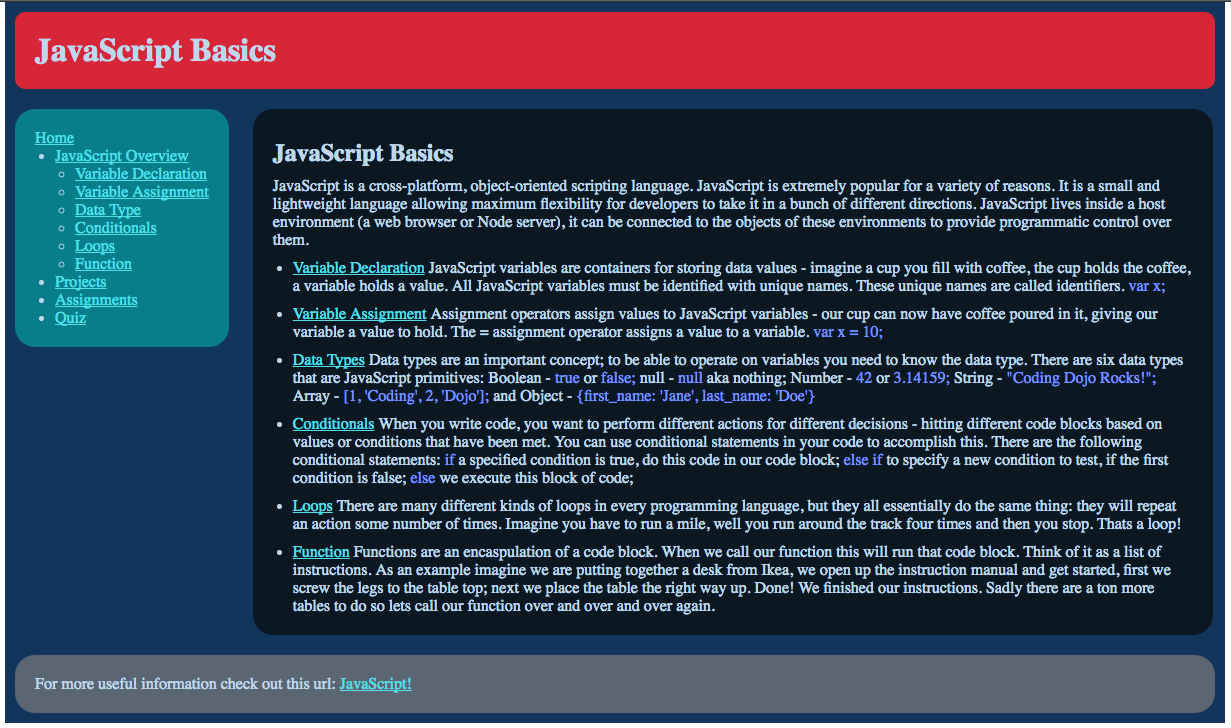
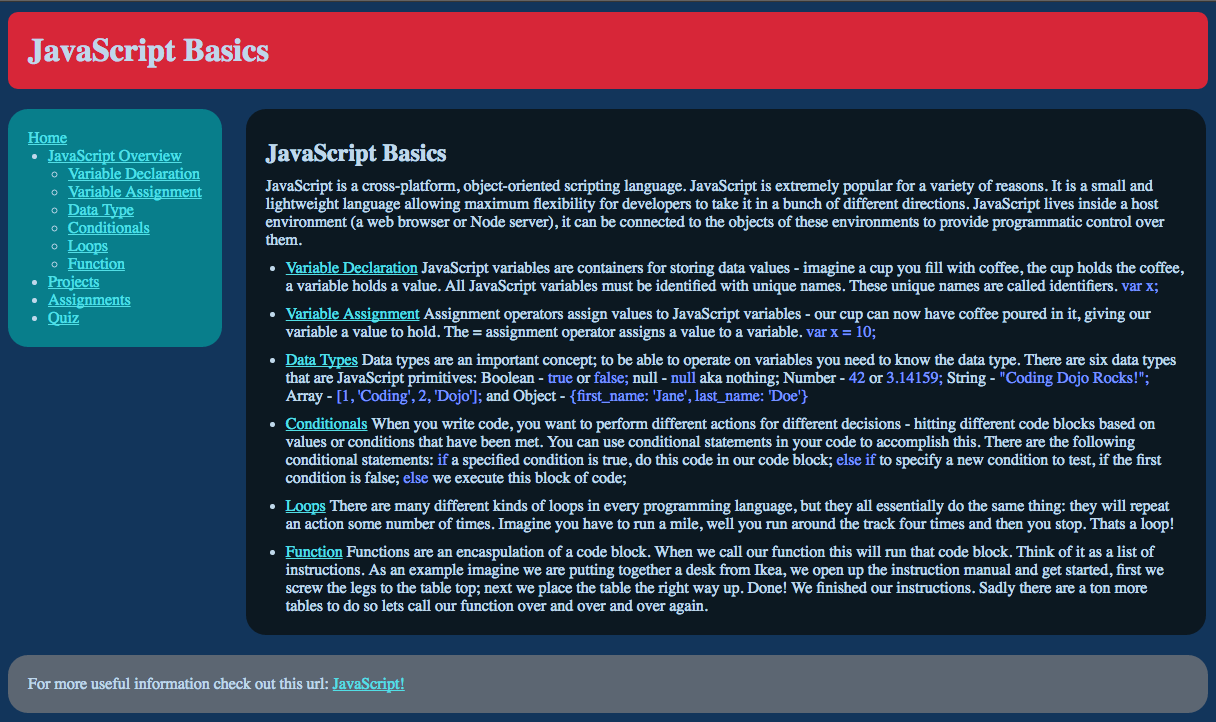
Version 1

Changed region(s): [[0.0, 0.0, 1.0, 1.0]]

diff --git a/CSS-JavaScript-Basics/index.html b/CSS-JavaScript-Basics/index.html
@@ -1,0 +1,150 @@
+<!DOCTYPE html>
+<html lang="en">
+  <head>
+    <meta charset="UTF-8" />
+    <meta name="viewport" content="width=device-width, initial-scale=1.0" />
+    <link rel="stylesheet" href="css/style.css" />
+    <title>Document</title>
+  </head>
+  <body>
+    <div class="background">
+      <div class="navbar">
+        <h1 class="navbar-h1">JavaScript Basics</h1>
+      </div>
+      <div class="sidebar-nav">
+        <a href="">Home</a>
+        <ul>
+          <li>
+            <a href="">JavaScript Overview</a>
+            <ul>
+              <li>
+                <a href="">Variable Declaration</a>
+              </li>
+              <li>
+                <a href="">Variable Assignment</a>
+              </li>
+              <li>
+                <a href="">Data Type</a>
+              </li>
+              <li>
+                <a href="">Conditions</a>
+              </li>
+              <li>
+                <a href="">Loops</a>
+              </li>
+              <li>
+                <a href="">Function</a>
+              </li>
+            </ul>
+          </li>
+          <li>
+            <a href="">Projects</a>
+          </li>
+          <li>
+            <a href="">Assignments</a>
+          </li>
+          <li>
+            <a href="">Quiz</a>
+          </li>
+        </ul>
+      </div>
+      <div class="main-content">
+        <h1 class="main-h1">JavaScript Basics</h1>
+        <p class="main-p">
+          JavaScript is a cross-platform, object-oriented scripting language.
+          JavaScript is extremely popular for a variety of reasons. It is a
+          small and lightweight language allowing maximum flexibility for
+          developers to take it in a bunch of different directions. JavaScript
+          lives inside a host environment (a web browser or Node server), it can
+          be connected to the objects of these environments to provide
+          programmatic control over them.
+        </p>
+        <ul class="main-ul">
+          <li class="main-li">
+            <p class="main-li-p">
+              <a class="main-li-a" href="">Variable Declaration</a>
+              JavaScript variables are containers for storing data values -
+              imagine a cup you fill with coffee, the cup holds the coffee, a
+              variable holds a value. All JavaScript variables must be
+              identified with unique names. These unique names are called
+              identifiers. <strong class="main-strong">var x;</strong>
+            </p>
+          </li>
+          <li class="main-li">
+            <p class="main-li-p">
+              <a class="main-li-a" href="">Variable Assignment</a>
+              Assignment operators assign values to JavaScript variables - our
+              cup can now have coffee poured in it, giving our variable a value
+              to hold. The = assiignment operator assigns a value to a variable
+              &nbsp<strong class="main-strong">var x = 10;</strong>
+            </p>
+          </li>
+          <li class="main-li">
+            <p class="main-li-p">
+              <a class="main-li-a" href="">Data Types</a>
+              Data types are an important concept; to be able to operate on
+              variables you need to know the data type. There are six data types
+              that are JavaScript primitives: Boolean -
+              <strong class="main-strong">true</strong> or
+              <strong class="main-strong">false;</strong> null -
+              <strong class="main-strong">null</strong> aka nothing; Number -
+              <strong class="main-strong">42&nbsp;</strong> or
+              <strong class="main-strong">3.14159;</strong> String -
+              <strong class="main-strong">"Coding Dojo Rocks!";</strong><br />
+              Array -
+              <strong class="main-strong">[1, 'Coding', 2, 'Dojo'];</strong> and
+              Object -
+              <strong class="main-strong"
+                >{first_name: 'Jane', last_name: 'Doe'}</strong
+              >
+            </p>
+          </li>
+          <li class="main-li">
+            <p class="main-li-p">
+              <a class="main-li-a" href="">Conditionals</a>
+              When you write code, you want to perform different actions for
+              different decisions - hitting different code blocks based on
+              values or conditions that have been met. You can use conditional
+              statements in your code to accomplish this. There are the
+              following conditional statements:<strong class="main-strong"
+                >if</strong
+              >
+              a specified condition is true, do this code in our code block;
+              <strong class="main-strong">else if</strong> to specify a new
+              condition to test, if the first condition is false;
+              <strong class="main-strong">else</strong> we execute this block of
+              code;
+            </p>
+          </li>
+          <li class="main-li">
+            <p class="main-li-p">
+              <a class="main-li-a" href="">Loops</a> There are many different
+              kinds of loops in every programming language, but they all
+              esentially do the same thing; they will repeat an action some
+              number of times. Imagine you have to run a mile, well you run
+              around the track four times and then you stop. Thats a loop!
+            </p>
+          </li>
+          <li class="main-li">
+            <p class="main-li-p">
+              <a class="main-li-a" href="">Function</a> Functions are an
+              encaspulation of code block. When we call our function this will
+              run code block. Think of it as a list of instructions. As an
+              example imagine we are putting together a desk from Ikea, we open
+              up the instruction manual and get started, first we screw the legs
+              to the table top; next we place the table the right way up. Done!
+              We finished our instructions. Sadly there are a ton more tables to
+              do so lets call our function over and over again.
+            </p>
+          </li>
+        </ul>
+      </div>
+      <div class="footer">
+        <h5 class="footer-h5">
+          For more useful information check out this url:
+          <strong class="main-strong">JavaScript!</strong>
+        </h5>
+      </div>
+    </div>
+  </body>
+</html>

diff --git a/CSS-JavaScript-Basics/css/style.css b/CSS-JavaScript-Basics/css/style.css
@@ -1,0 +1,102 @@
+* {
+  margin: 0px;
+  padding: 0px;
+}
+.background {
+  /* background-image: url(../img/jsloups.png); */
+  min-height: 725px;
+  min-width: 1214px;
+  background-repeat: no-repeat;
+  position: absolute;
+  z-index: -100;
+  background-color: #12355b;
+}
+.navbar {
+  height: 77px;
+  background: rgb(216 66 57);
+  margin: 12px 6px 7px 8px;
+  border-radius: 8px;
+}
+.navbar-h1 {
+  color: white;
+  padding: 20px;
+}
+.sidebar-nav {
+  display: inline-block;
+  height: 199px;
+  width: 175px;
+  background-color: #2c7f8b;
+  border-radius: 23px;
+  margin: 12px 0px 0px 8px;
+  padding: 20px;
+}
+.main-content {
+  display: inline-block;
+  height: 528px;
+  width: 960px;
+  background-color: rgb(12 24 33);
+  border-radius: 23px;
+  margin: 12px 0px 0px 18px;
+  vertical-align: top;
+}
+.footer {
+  height: 58px;
+  width: 1200px;
+  background-color: #5c6672;
+  border-radius: 20px;
+  margin: 19px 0px 0px 8px;
+  display: flex;
+  justify-content: flex-start;
+  align-items: center;
+  padding: 0px 0px 0px 20px;
+}
+ul {
+  list-style-type: disc;
+  margin-left: 0;
+  margin-right: 0;
+  padding-left: 20px;
+}
+a {
+  color: #55dbe3;
+}
+li {
+  color: white;
+}
+ul li::marker {
+  color: silver;
+}
+ul li ul li::marker {
+  color: silver;
+}
+ul li ul li {
+  list-style: circle;
+}
+h1.main-h1 {
+  color: #bfd7ea;
+  margin: 32px 0px 0px 18px;
+  font-size: 24px;
+  font-weight: 700;
+}
+p.main-p {
+  color: #bfd6ea;
+  line-height: 18px;
+  padding: 8px 20px 0px 20px;
+}
+ul.main-ul {
+  padding: 2px 0px 0px 41px;
+}
+p.main-li-p {
+  margin-right: 20px;
+  color: #bfd6ea;
+}
+strong.main-strong {
+  color: #7692ff;
+  font-size: 14.5px;
+  font-weight: bold;
+}
+li.main-li {
+  margin: 10px 0px 0px 0px;
+}
+.footer-h5 {
+  color: #bfd6ea;
+}
